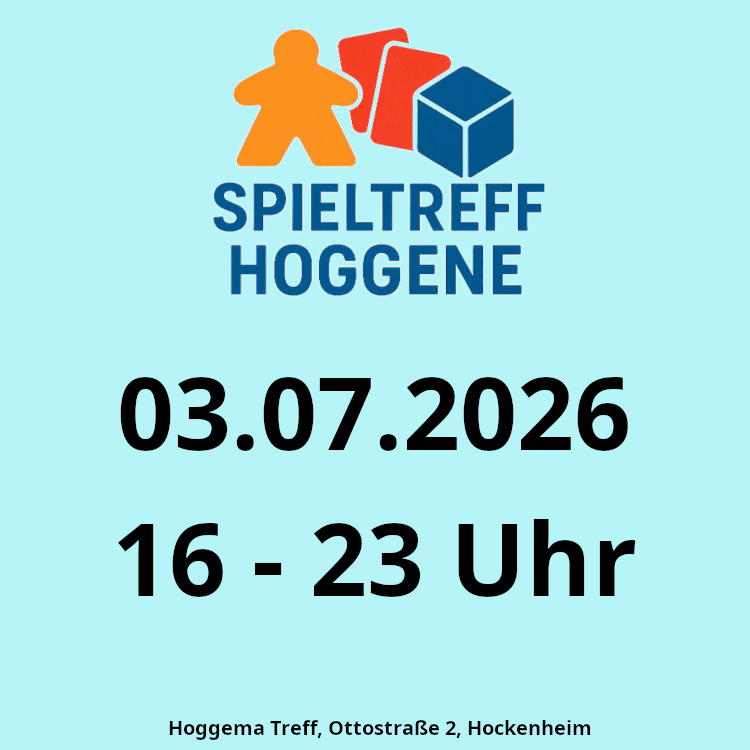
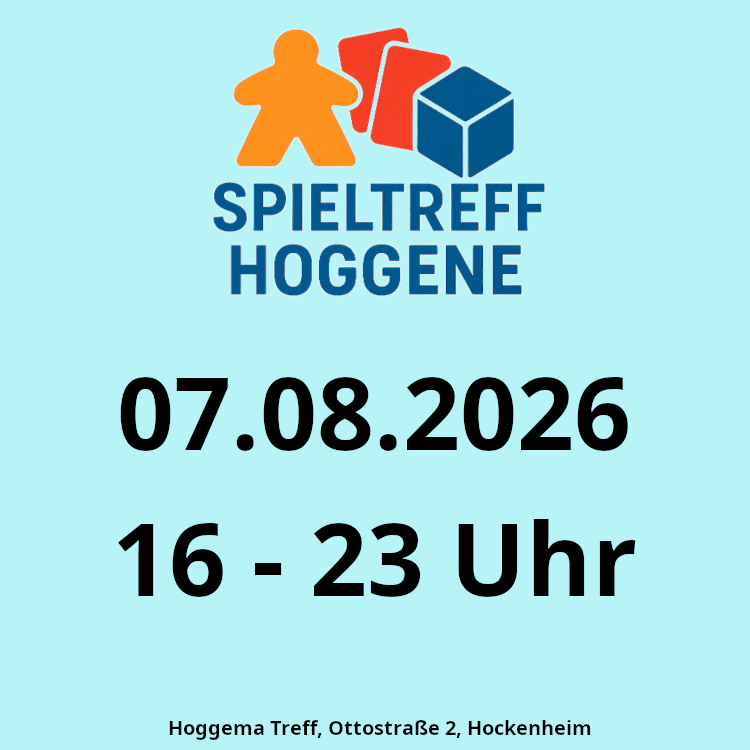
next event

Changed region(s): [[0.2147, 0.4907, 0.3067, 0.6133], [0.4293, 0.4907, 0.4907, 0.6133]]

diff --git a/index.html b/index.html
@@ -34,7 +34,7 @@
             <div class="banner-content">
                 <h1>Brettspiele für Alle</h1>
                 <span class="next-event">Nächster Termin:
-                    <strong>03.07.2026</strong> von <strong>16 bis 23 Uhr</strong></span>
+                    <strong>07.08.2026</strong> von <strong>16 bis 23 Uhr</strong></span>
             </div>
         </div>
     </header>
@@ -172,12 +172,12 @@
                             <td>14-20 Uhr</td>
                             <td>-</td>
                         </tr>
-                        <tr class="event-next">
+                        <tr class="event-past">
                             <td>3. Juli 2026</td>
                             <td>16-23 Uhr</td>
                             <td>-</td>
                         </tr>
-                        <tr class="event-future">
+                        <tr class="event-next">
                             <td>7. August 2026</td>
                             <td>16-23 Uhr</td>
                             <td>-</td>
